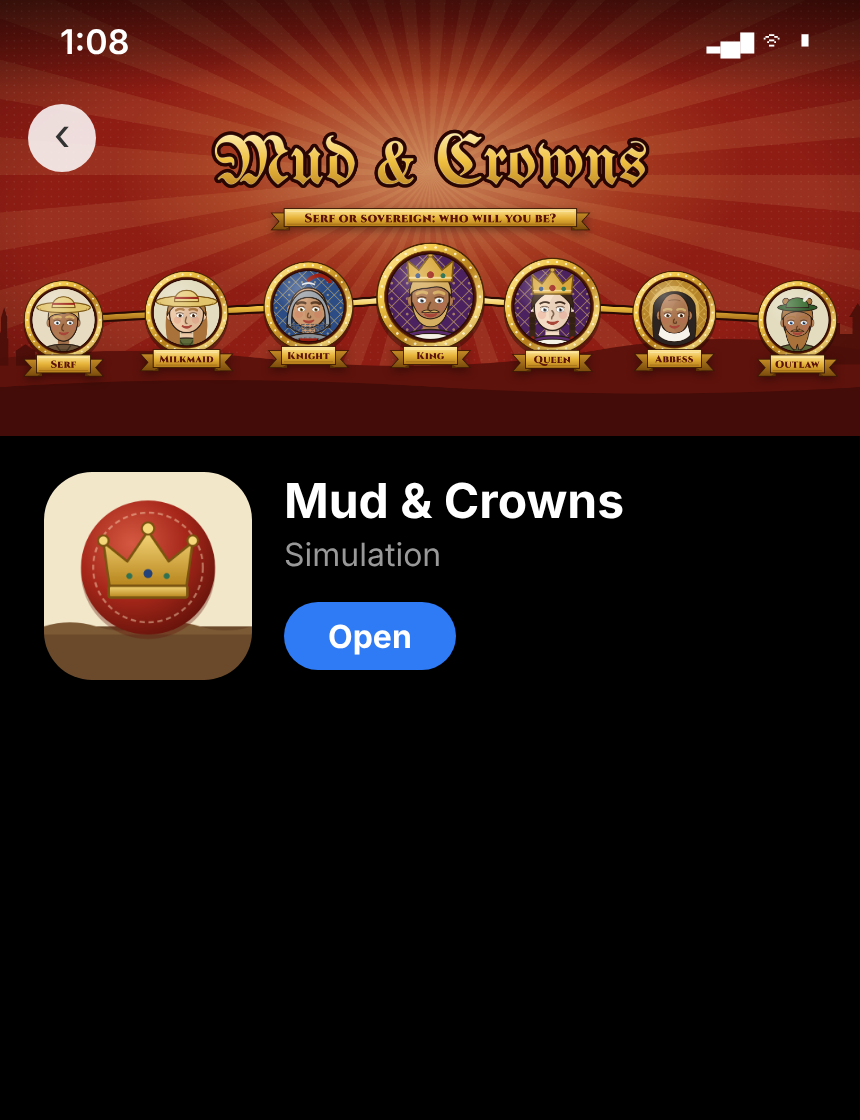
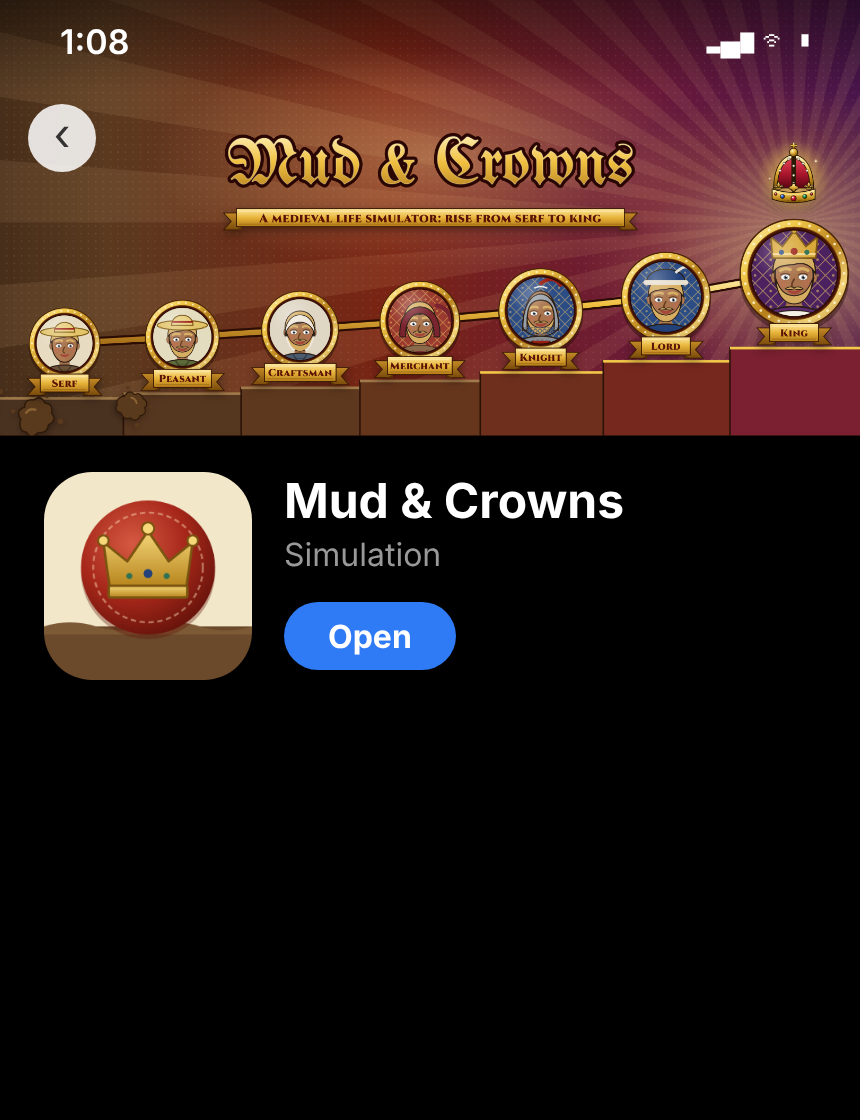
Promo: a climb from serf to king, and "a medieval life simulator"
The header is now a staircase from the mud to the crown: the same man as
serf, peasant, craftsman, merchant, knight, lord and king, under "A
medieval life simulator: rise from serf to king". The first screenshot
shows the same climb; the second shows the many lives you can live.
"Serf" is used, the game's own word, rather than "slave". Not sent to
Apple; waiting for approval.

Claude-Session: https://claude.ai/code/session_01Ng8y7vFwhLArsm3PAF3YVs

diff --git a/store/promo/README.md b/store/promo/README.md
@@ -1,23 +1,23 @@
 # App Store promo pictures
 
-BitLife-style pictures that show everyone you can be: a serf, a milkmaid, a knight, an abbess, an outlaw, a merchant, a king or a queen. Each picture is the real game with a bold caption and a gold medallion of the person it's about. Picture 4 follows Hob Thatcher from swineherd to king; picture 6 is his gravestone.
+BitLife-style pictures that say what the game is: a medieval life simulator where you can rise from serf to king, and be anyone along the way. Each picture is the real game with a bold caption and gold medallions of the people it's about. The lowest rank is called a serf, the game's own word (bound to the lord's land), rather than "slave".
 
 ## Screenshots: 1290 × 2796 (6.7-inch iPhone)
 
 | File | Caption |
 | --- | --- |
-| MudCrowns_promo_1.png | Who will you be? |
-| MudCrowns_promo_2.png | Every choice matters! |
-| MudCrowns_promo_3.png | Mini-games for every high post! |
-| MudCrowns_promo_4.png | From mud to crown! |
+| MudCrowns_promo_1.png | Rise from serf to king! (the same man climbing: serf, peasant, craftsman, merchant, knight, lord, king; "A medieval life simulator") |
+| MudCrowns_promo_2.png | Who will you be? (hundreds of lives: serf, knight, abbess, outlaw, merchant, queen) |
+| MudCrowns_promo_3.png | Every choice matters! |
+| MudCrowns_promo_4.png | Mini-games for every high post! |
 | MudCrowns_promo_5.png | Raise a royal family! |
-| MudCrowns_promo_6.png | Become a legend! |
+| MudCrowns_promo_6.png | Become a legend! (King Hob's gravestone: born a serf, died a king) |
 
-Nothing here is sent to Apple automatically. When approved, upload in App Store Connect: your app, the version, then iPhone screenshots (6.7-inch), in this order. They replace the old ones; you can save them without sending a new build.
+Nothing here is sent to Apple automatically. When approved, upload in App Store Connect: your app, the version, then iPhone screenshots (6.7-inch), in this order.
 
 ## Product page header: 3840 × 1646 (21:9)
 
-`MudCrowns_header_3840x1646.png` is the wide banner at the top of the product page, like BitLife's: the name in gold on sun rays, a gold ribbon ("Serf or sovereign: who will you be?"), and seven different people in gold medallions (serf, milkmaid, knight, king, queen, abbess, outlaw). The name and ribbon sit inside Apple's central safe area (1646 × 661 at x 1097, y 493); the medallions fill the width a phone shows. No transparency. `preview/phone_preview_header.png` is a mock-up of how it looks on a phone, for checking only: do not upload it.
+`MudCrowns_header_3840x1646.png` is the wide banner at the top of the product page, like BitLife's: the same man climbing a golden staircase from the mud on the left (serf, peasant, craftsman, merchant, knight, lord) to the crown on the right (king), under the name in gold and a ribbon reading "A medieval life simulator: rise from serf to king". The name and ribbon sit inside Apple's central safe area (1646 × 661 at x 1097, y 493). No transparency. `preview/phone_preview_header.png` is a mock-up of how it looks on a phone, for checking only: do not upload it.
 
 Headers are new with iOS 27 and only show on iOS 27 or later. Upload: your app, the version, Product Page Information, Header and Search Results, Header. Drag the file in, Save, then submit the version for review; it goes live when that version is approved and released. Use Preview there to see how it looks.
 
